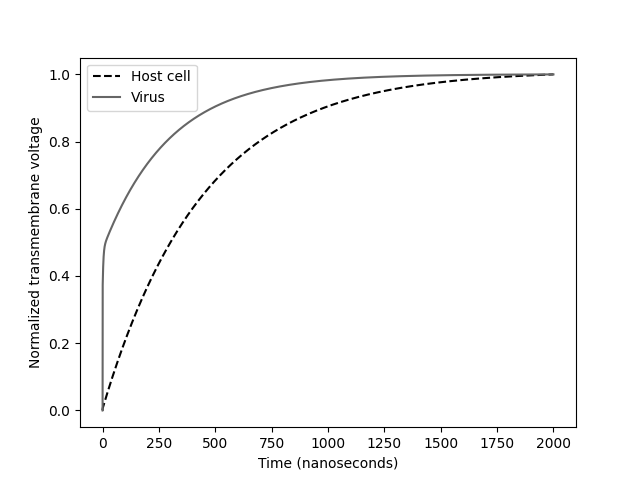
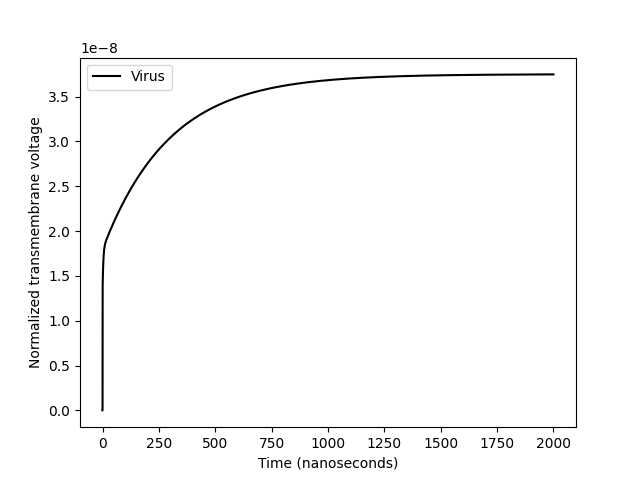
Trying to creep up on solution, BFGS works okay surprisingly

diff --git a/nagurka_fourier_method/fourier.py b/nagurka_fourier_method/fourier.py
@@ -22,23 +22,30 @@ def new_virus(t):
 https://en.wikipedia.org/wiki/Adaptive_coordinate_descent might be interesting
 """
 
-M = 10 # number of fourier terms
+M = 20 # number of fourier terms
 
 #input_amplitude = 1e8#
 
+vir_w = 10.0
 """
 depending on the time scale involved,
 Has to be scaled by 1/20 initially to push the N into the nonlinear - otherwise the
 host N count is beyond float precision.
 
-making slow progress, continue
+Initially, transmembrane voltage clipping was used to prevent N from running off the edge.
+(in reality, of course, the current flow due to the high number of pores would limit the voltage).
+However, a much more effective technique was to scale the
+"""
+
+"""
+There seems to be a weird linear increase in N that I don't think should be there.
 """
 
 def get_output(guess):
     m = np.arange(1, M+1)
-    a = np.array(guess[0:M], dtype=np.float128)*1e5 #* m**2.0
-    b = np.array(guess[M:(2*M)], dtype=np.float128)*1e5
-    t_f = 1e-10 #abs(guess[2*M])
+    a = np.array(guess[0:M], dtype=np.float128) #* m**2.0
+    b = np.array(guess[M:(2*M)], dtype=np.float128)
+    t_f = 1e-8 #abs(guess[2*M])
 
     # input_amplitude = abs(guess[2*M]) * 1e7
     input_amplitude = 1
@@ -77,7 +84,7 @@ def get_output(guess):
     host_cell_output = U_to_X(U, t, host_cell) * input_amplitude
 
     w = np.max(np.abs(host_cell_output))/1.5 + np.max(np.abs(virus_output))/1.5
-    virus_output /= w/5
+    virus_output /= w/vir_w
     host_cell_output /= w
     # assumes the parameters are identical for both membranes
     Nsq_virus = integrate_pore_density(t, virus_output, pore_N0, pore_alpha, pore_q, pore_V_ep)
@@ -132,8 +139,8 @@ def cost_function(guess):
     # v2 = np.sum(np.abs(np.diff(virus_output))/(np.max(virus_output)-np.min(virus_output)))*0.01
     # h2 = np.sum(np.abs(np.diff(host_cell_output))/(np.max(host_cell_output)-np.min(host_cell_output)))*0.01
 
-    v1 = Nsq_virus[-1]
-    h1 = Nsq_host_cell[-1]
+    v1 = np.max(Nsq_virus)#[-1]
+    h1 = np.max(Nsq_host_cell)#[-1]
 
     # print(guess[0:M], guess[M:(2*M)])
     os.system('clear')
@@ -146,29 +153,40 @@ def cost_function(guess):
     # return abs(abs(host_cell_output[-1])/abs(virus_output[-1]))
 
 
-guess_initial = np.array((np.random.random(M*2 + 5, )*2 - 1.0), dtype=np.float128)
-# guess_initial[0] =
+
+# guess_initial = np.array((np.random.random(M*2 + 5, )*2 - 1.0), dtype=np.float128)
+guess_initial = np.ones(M*2 + 5)
+
+try:
+    with open('data.pickle', 'rb') as f:
+        guess_initial = pickle.load(f)
+except:
+    pass
+
+vir_w = 5.0
 
 # guess_initial[2*M] = 10**(-np.random.random()*15) #time
-guess_initial[2*M] = 1.0
+# guess_initial[2*M] = 1.0
 
-bounds = [(-1000, 1000.0)]*(2*M) + [(1e-12, 1e-4)] + [(-10, 10)] + [(-100, 100)] + [(-100, 100)] + [(-100, 100)] #+ [(-10, 10)]
-
-
-
-filename = 'globalsave.pkl'
-try:
-    dill.load_session(filename)
-    print()
-    print("#"*10 + "LOADED PREVIOUS SESSION" + "#"*10)
-    print()
-except:
-    Tmin = minimize(cost_function, guess_initial, method="Nelder-Mead", options={"disp":True, "maxiter":10000}, bounds=bounds).x #, "maxiter":1000
-
-    dill.dump_session(filename)
+# bounds = [(-1000, 1000.0)]*(2*M) + [(1e-12, 1e-4)] + [(-10, 10)] + [(-100, 100)] + [(-100, 100)] + [(-100, 100)] #+ [(-10, 10)]
 
 
 
+# filename = 'globalsave.pkl'
+# try:
+#     dill.load_session(filename)
+#     print()
+#     print("#"*10 + "LOADED PREVIOUS SESSION" + "#"*10)
+#     print()
+# except:
+#     Tmin = minimize(cost_function, guess_initial, method="Nelder-Mead", options={"disp":True, "maxiter":500}).x #, "maxiter":1000
+#
+#     dill.dump_session(filename)
+
+Tmin = minimize(cost_function, guess_initial, method="BFGS", options={"disp":True, "maxiter":500}).x #, "maxiter":1000
+
+with open('data.pickle', 'wb') as f:
+    pickle.dump(Tmin, f)
 
 # tubthumper = basinhopping
 # minimizer_kwargs = dict(method="Nelder-Mead", options={"disp":True, "maxiter":100}, bounds=bounds) #, tol=1e-12
